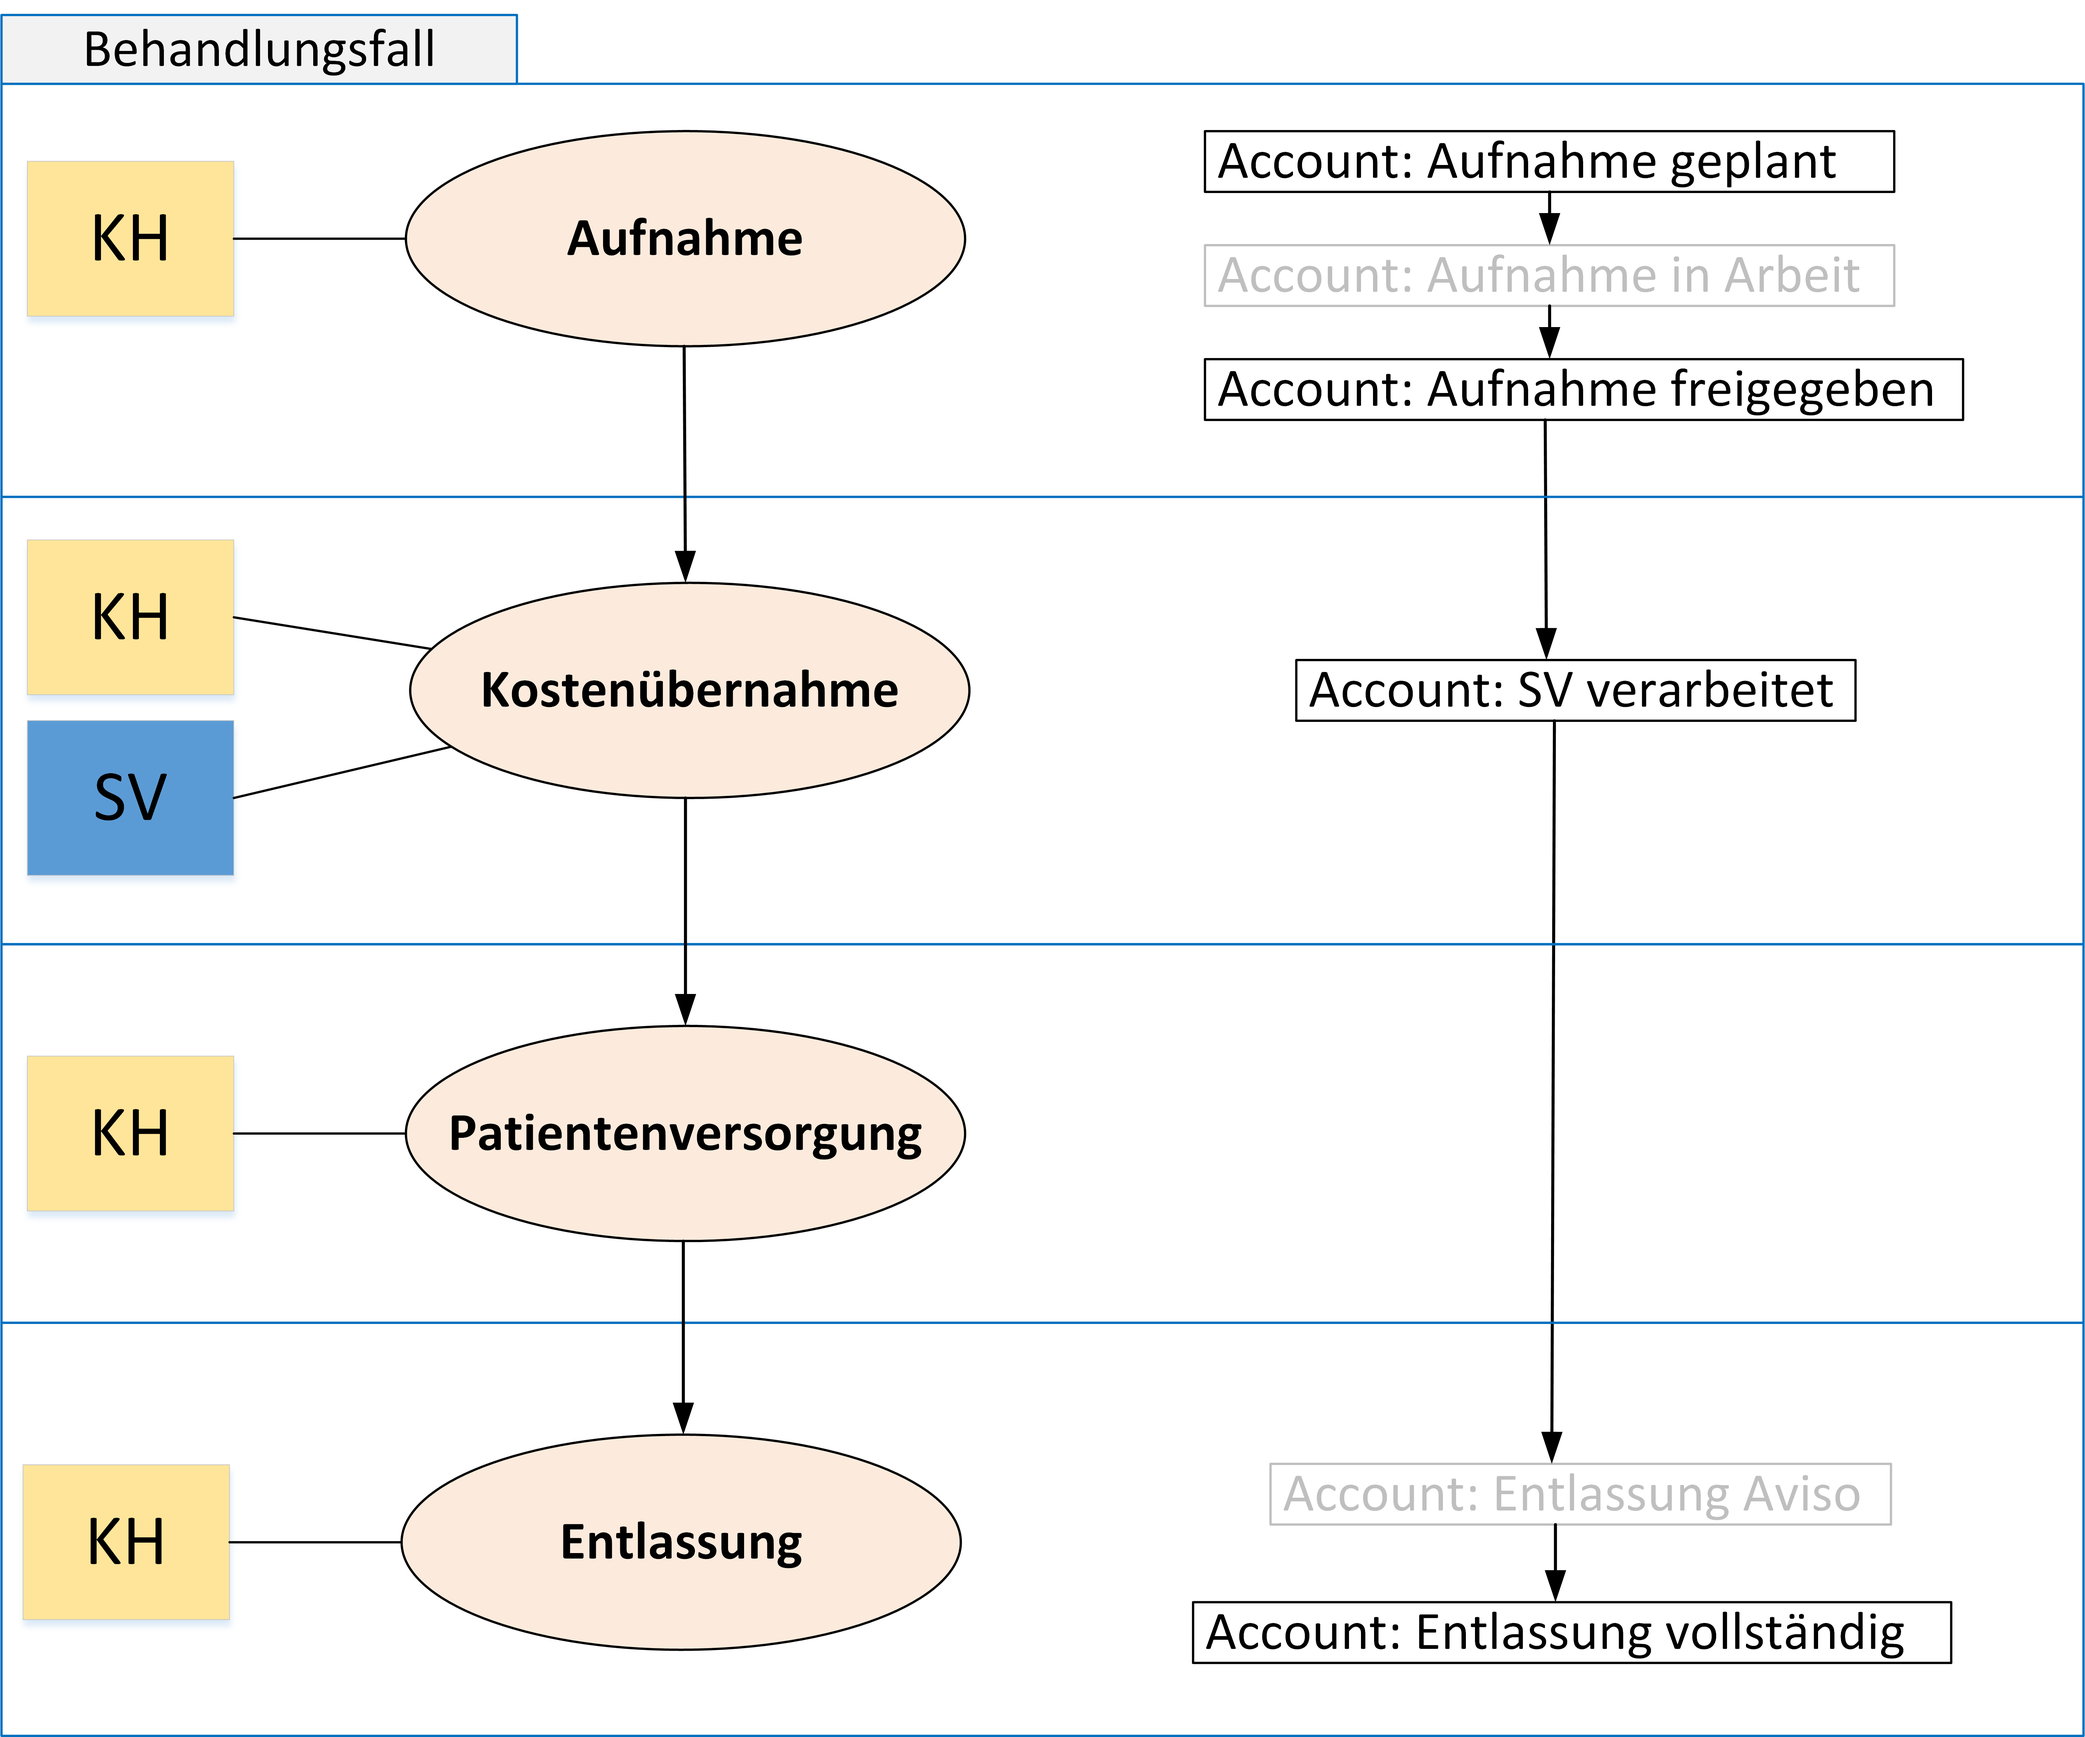
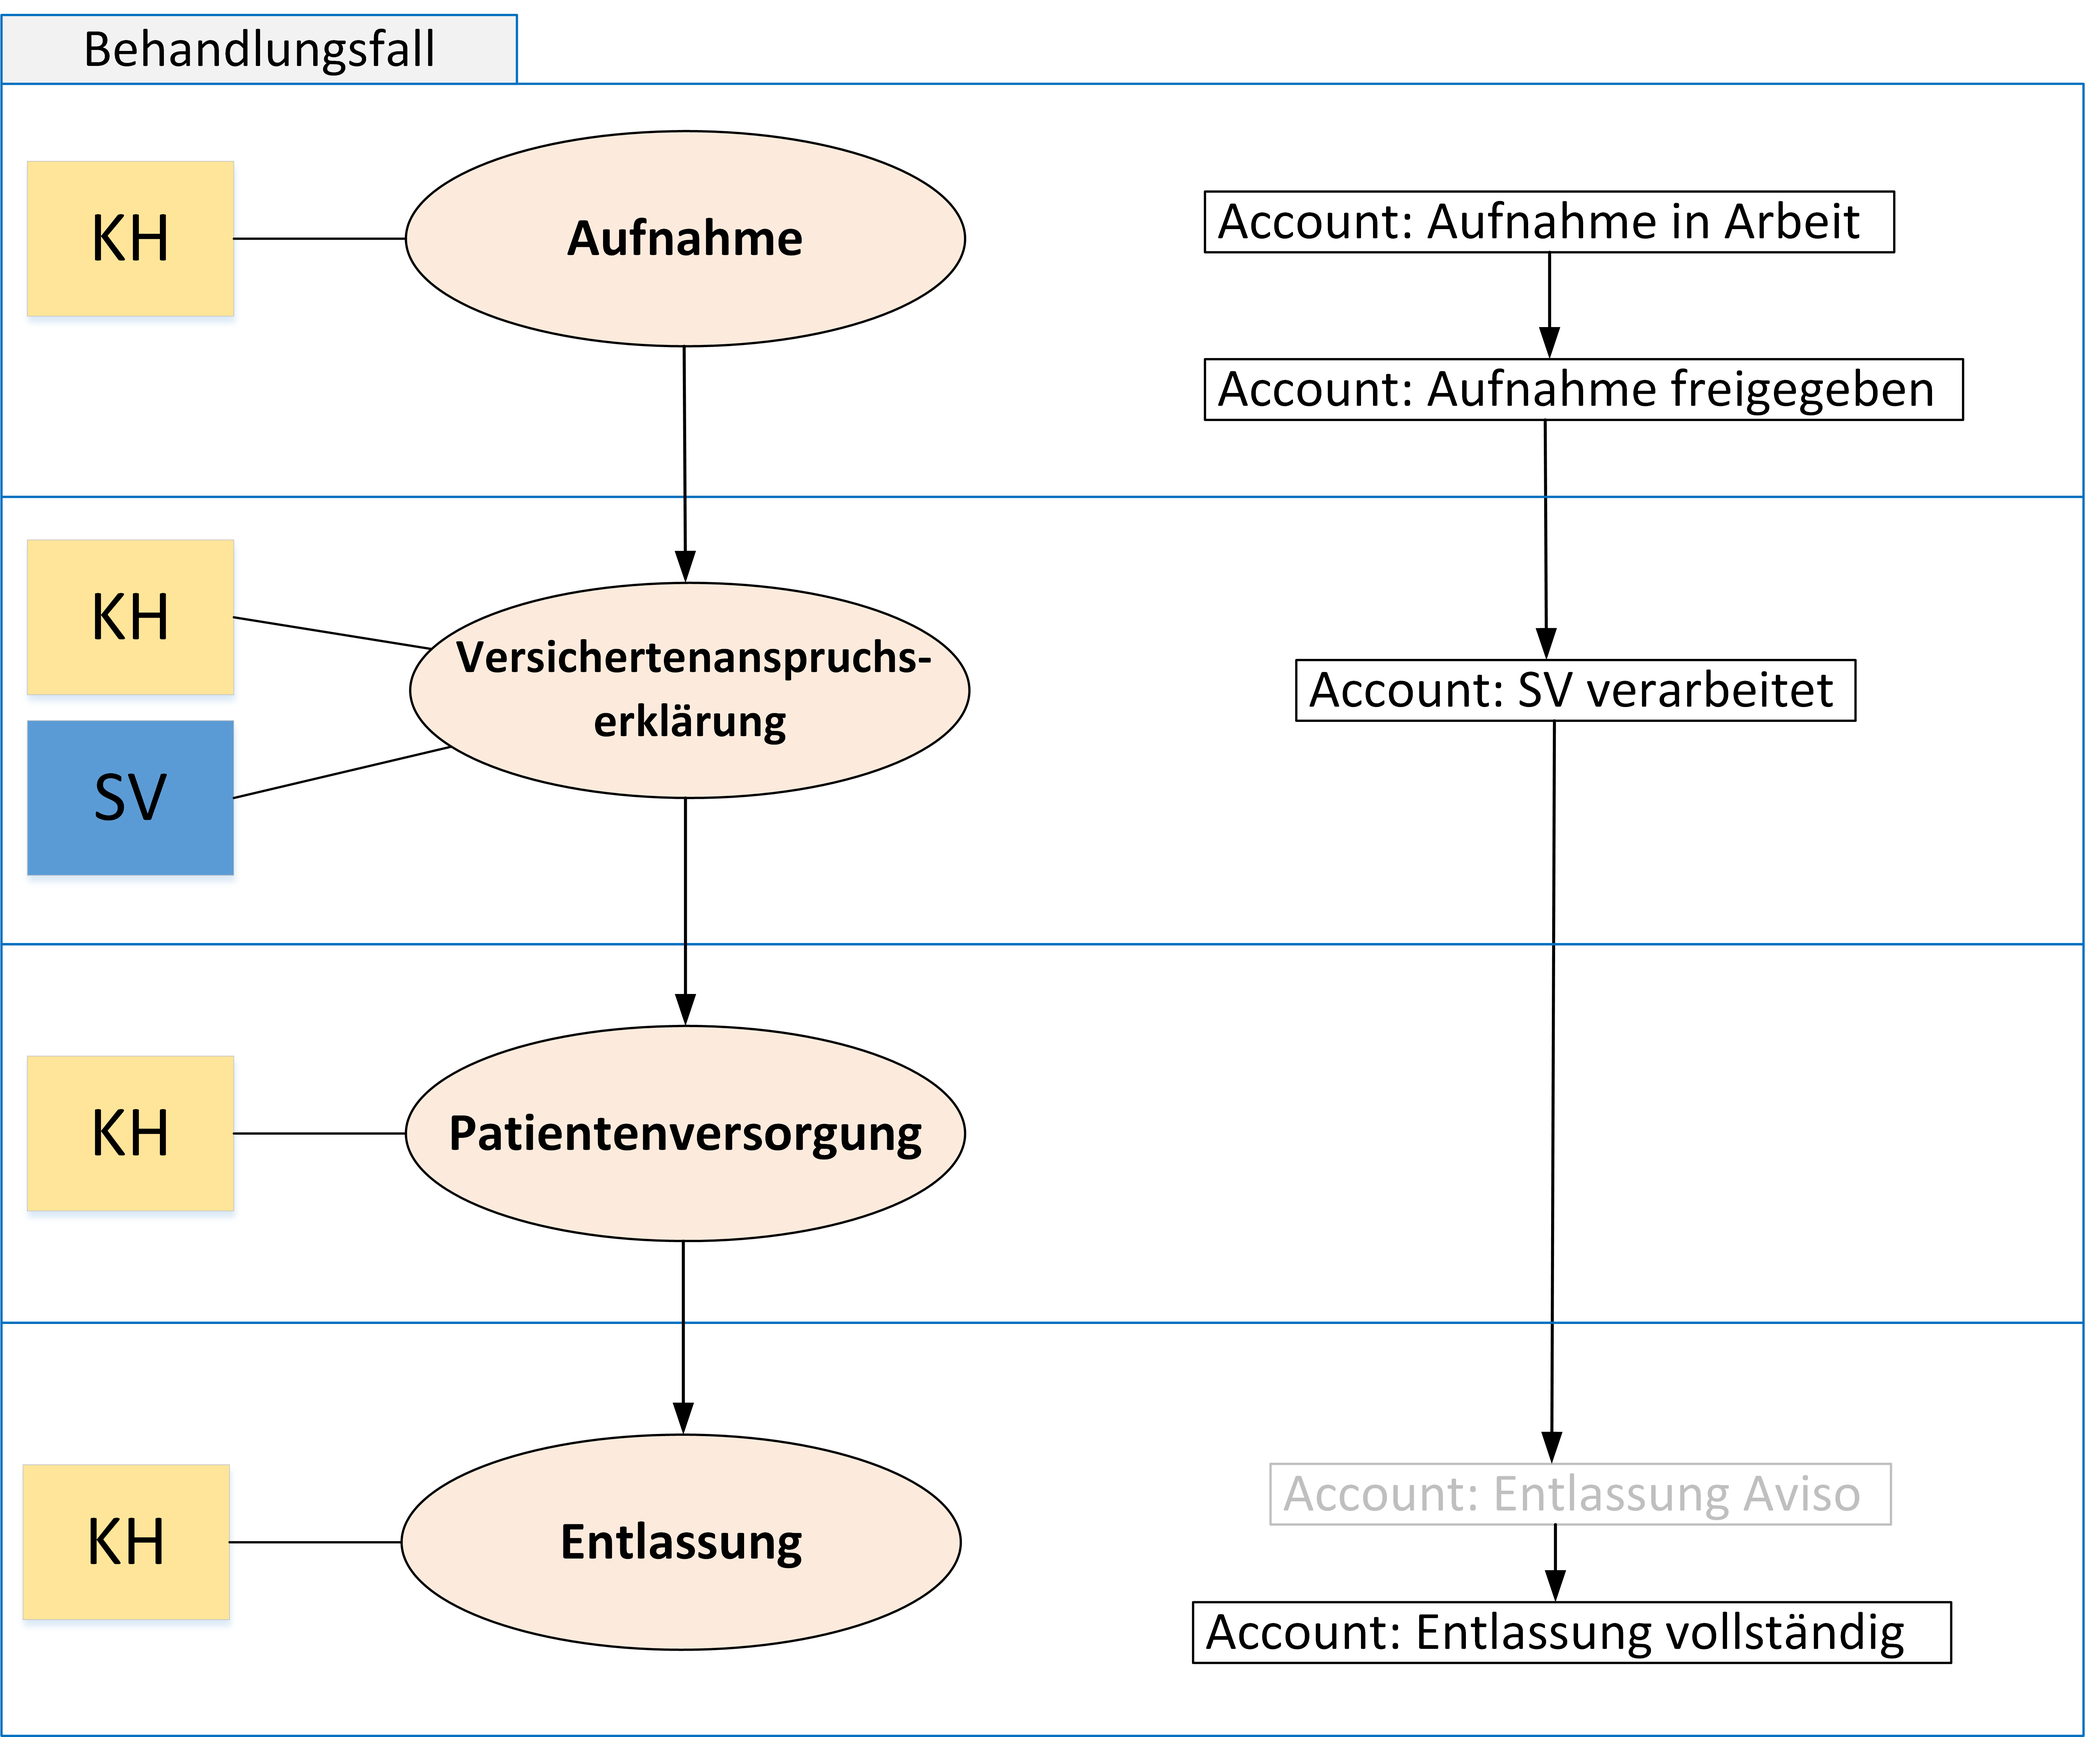
update "Sollprozess" images
#53

Changed region(s): [[0.5597, 0.0625, 0.9017, 0.1875], [0.2176, 0.3749, 0.4353, 0.4374]]

diff --git a/input/pagecontent/Kostenmeldung.md b/input/pagecontent/Kostenmeldung.md
@@ -10,11 +10,11 @@
     <div class="tab-content">
         <div id="KostenmeldungÜbernahme" class="tab-pane fade in active">
             <h1>Kostenmeldung - Übernahme</h1>
-            <img src="Sollprozess/eEPKs/Kostenmeldung - Übernahme.png" width ="60%">
+            <img src="Sollprozess/eEPKs/Kostenmeldung - Übernahme.png" width ="50%">
         </div>
         <div id="KostenmeldungRückmeldung" class="tab-pane fade">
             <h1>Kostenmeldung - Rückmeldung</h1>
-        <img src="Sollprozess/eEPKs/Kostenmeldung - Rückmeldung.png" width ="60%">
+        <img src="Sollprozess/eEPKs/Kostenmeldung - Rückmeldung.png" width ="50%">
         </div>
     </div>
 </div>

diff --git a/input/pagecontent/Behandlungsfall.md b/input/pagecontent/Behandlungsfall.md
@@ -16,8 +16,8 @@
         </div>
         <div id="Kostenübernahme" class="tab-pane fade">
             <h1>Kostenübernahme</h1>
-            <img src="Sollprozess/SollProzesse_einzeln/Kostenübernahme.png" width ="50%">
-            <img src="Sollprozess/eEPKs/Kostenübernahme.png" width ="40%">
+            <img src="Sollprozess/SollProzesse_einzeln/Versichertenanspruchserklärung.png" width ="50%">
+            <img src="Sollprozess/eEPKs/Versichertenanspruchserklärung.png" width ="40%">
         </div>
         <div id="Patientenversorgung" class="tab-pane fade">
             <h1>Patientenversorgung</h1>

diff --git a/input/pagecontent/JaehrlicheLeistungsabrechnung.md b/input/pagecontent/JaehrlicheLeistungsabrechnung.md
@@ -18,7 +18,7 @@
         </div>
         <div id="JährlicheBundesmeldung" class="tab-pane fade">
             <h1>Jährliche Bundesmeldung</h1>
-            <img src="Sollprozess/SollProzesse_einzeln/Jährliche Bundesmeldung.png" width ="50%">
+            <img src="Sollprozess/SollProzesse_einzeln/Jahresmeldung.png" width ="50%">
             <img src="Sollprozess/eEPKs/Jährliche Bundesmeldung.png" width ="50%">
         </div>
     </div>
